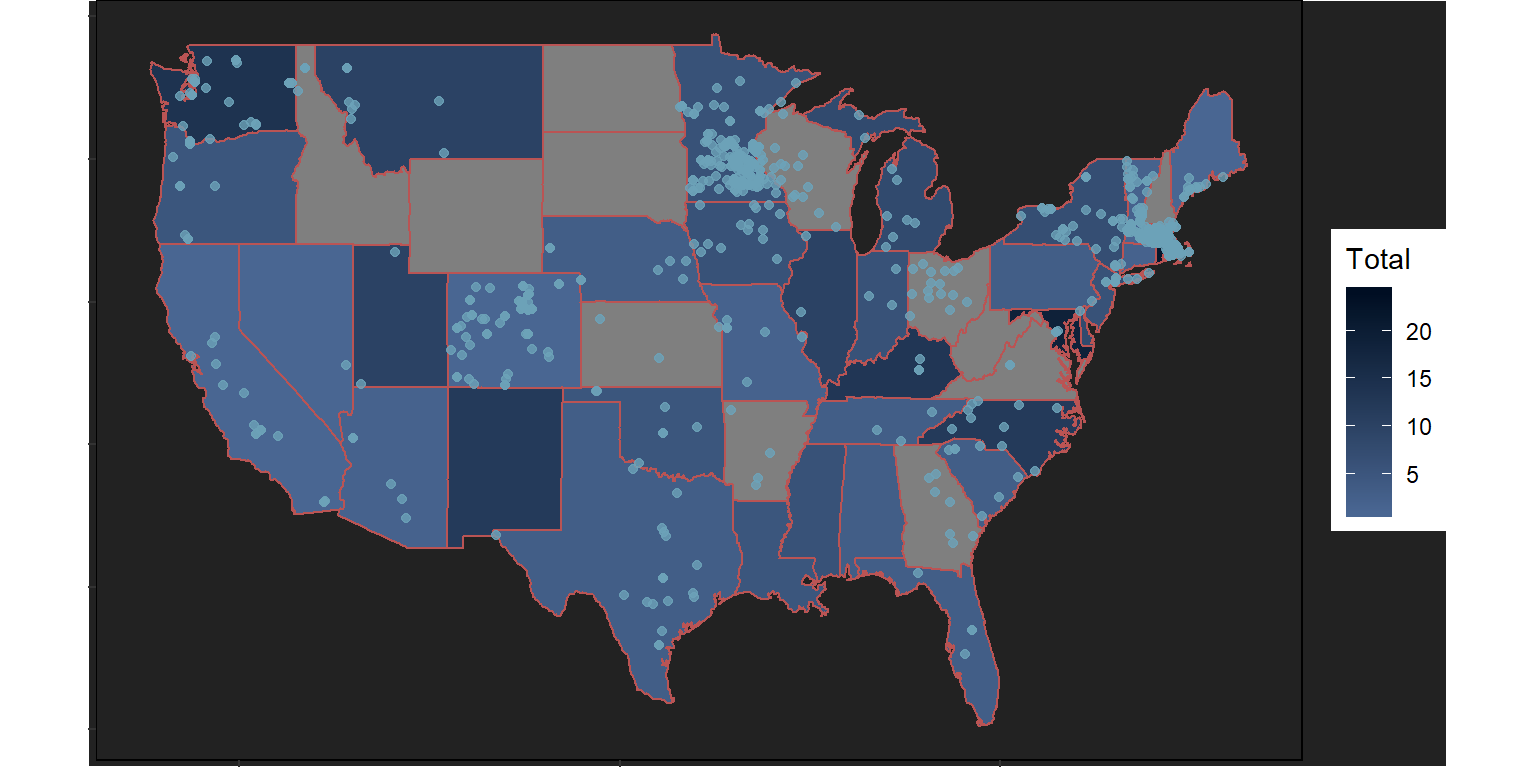
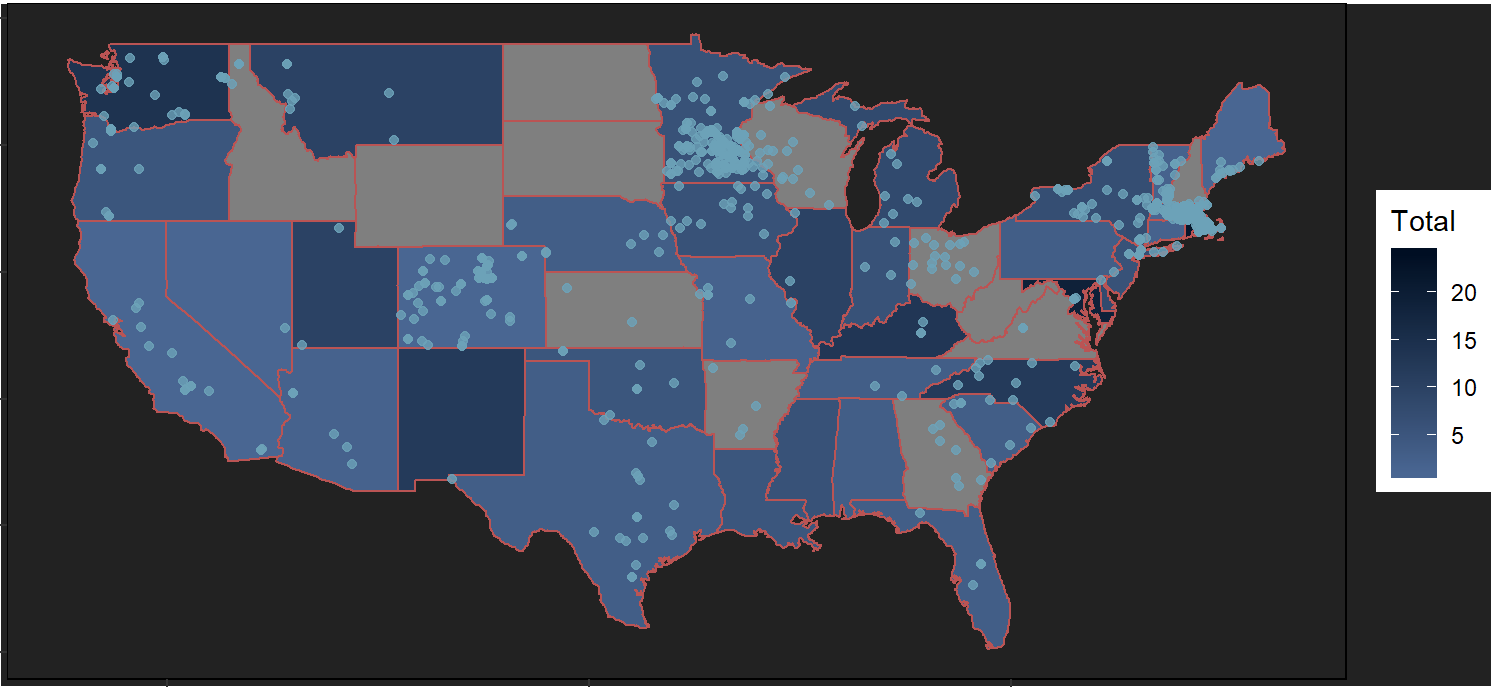
Commit

diff --git a/docs/index.html b/docs/index.html
@@ -519,9 +519,10 @@ plot1 &lt;- ggplot()+
 
 plot2 &lt;- ggplot()+
   geom_polygon(data = DSIRE_program_table2, aes(x = long, y = lat, group = group, fill = Average), col = &quot;#ba5454&quot;)+
-  coord_fixed(1.5)+
+  coord_fixed(1.2)+
   geom_point(NREL_Data, mapping = aes(x = Longitude , y = Latitude), col = &quot;#6ca2b8&quot;, alpha = .8)+
-  theme_black</code></pre>
+  theme_black+
+  scale_fill_gradient(low = &quot;#496692&quot;, high = &quot;#000E23&quot;)</code></pre>
 <ol start="8" style="list-style-type: decimal">
 <li>Plot spatial distribution along w/ shaded quantity incentive per state</li>
 </ol>
@@ -529,7 +530,7 @@ plot2 &lt;- ggplot()+
 
 plot3 &lt;- ggplot()+
   geom_polygon(data = DSIRE_program_table3, aes(x = long, y = lat, group = group, fill = Total), col = &quot;#ba5454&quot;)+
-  coord_fixed(1.5)+
+  coord_fixed(1.2)+
   geom_point(NREL_Data, mapping = aes(x = Longitude , y = Latitude), col = &quot;#6ca2b8&quot;, alpha = .8)+
   theme_black+
   scale_fill_gradient(low = &quot;#496692&quot;, high = &quot;#000E23&quot;)</code></pre>
@@ -537,8 +538,8 @@ plot3 &lt;- ggplot()+
 </div>
 <div id="results" class="section level1">
 <h1>Results</h1>
-<p>Spatial Distibution of Community Solar Installations - Provided by NREL <img src="index_files/figure-html/unnamed-chunk-8-1.png" width="746.4" /></p>
-<p>Spatial Distibution of Community Solar Installations w/ Incentives shaded per $ - Provided by NREL &amp; DSIRE data <img src="index_files/figure-html/unnamed-chunk-9-1.png" width="768" /> Spatial Distibution of Community Solar Installations w/ Incentives shaded per quantity - Provided by NREL &amp; DSIRE data <img src="index_files/figure-html/unnamed-chunk-10-1.png" width="768" /></p>
+<p>Spatial Distibution of Community Solar Installations - Provided by NREL <img src="index_files/figure-html/unnamed-chunk-8-1.png" width="746.4" /> <br><br> Spatial Distibution of Community Solar Installations w/ Incentives shaded per $ - Provided by NREL &amp; DSIRE data <img src="index_files/figure-html/unnamed-chunk-9-1.png" width="746.4" /> <br><br></p>
+<p>Spatial Distibution of Community Solar Installations w/ Incentives shaded per quantity - Provided by NREL &amp; DSIRE data <img src="index_files/figure-html/unnamed-chunk-10-1.png" width="746.4" /></p>
 <hr />
 </div>
 <div id="conclusion" class="section level1">
